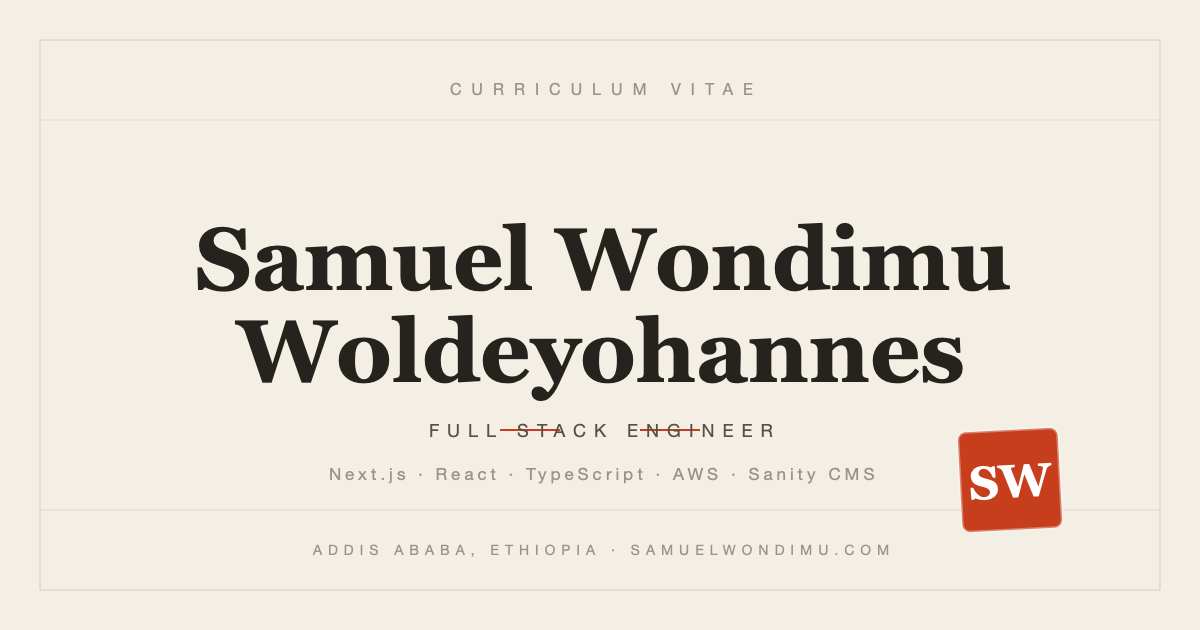
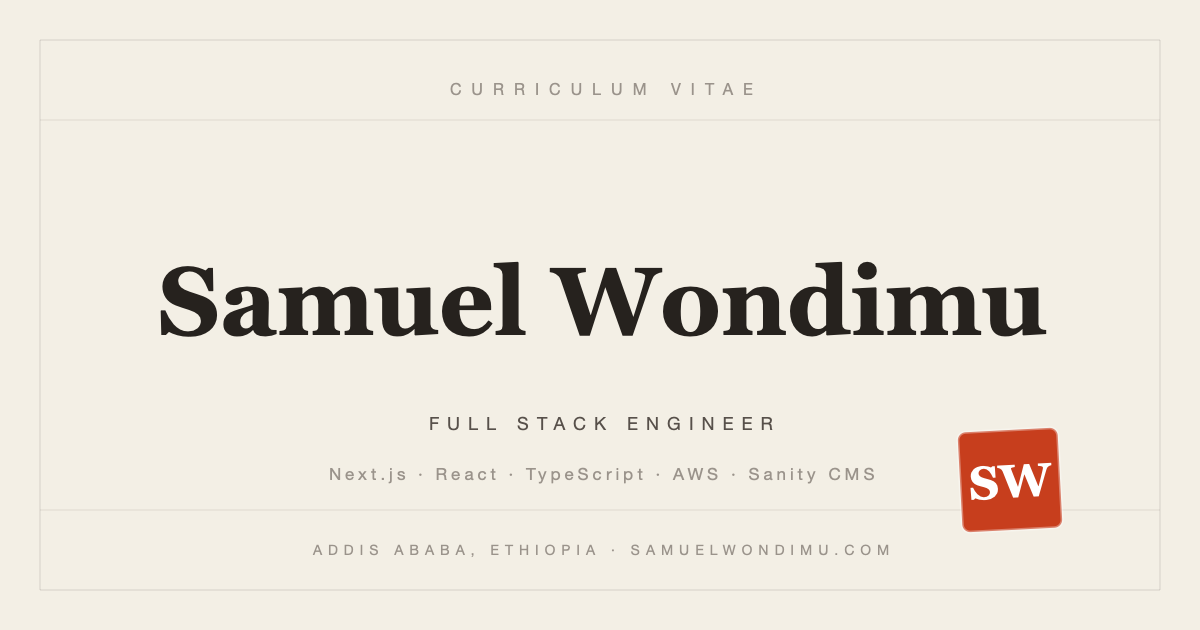
udpated og image

Changed region(s): [[0.1233, 0.3317, 0.8942, 0.6333], [0.3392, 0.6635, 0.6475, 0.6937]]

diff --git a/index.html b/index.html
@@ -33,7 +33,7 @@
     <meta property="og:image:height" content="630" />
     <meta
       property="og:image:alt"
-      content="Samuel Wondimu Woldeyohannes — Full Stack Engineer, resume cover"
+      content="Samuel Wondimu — Full Stack Engineer, resume cover"
     />
 
     <!-- Twitter / X -->
@@ -50,7 +50,7 @@
     <meta name="twitter:image" content="https://samuelwondimu.vercel.app/og-image.png" />
     <meta
       name="twitter:image:alt"
-      content="Samuel Wondimu Woldeyohannes — Full Stack Engineer, resume cover"
+      content="Samuel Wondimu — Full Stack Engineer, resume cover"
     />
 
     <!-- structured data -->

diff --git a/src/App.tsx b/src/App.tsx
@@ -290,7 +290,6 @@ function App() {
 
         {/* ─── FOOTER ─── */}
         <footer className="mt-28 pb-4 text-center">
-          <div className="enso mx-auto mb-8 h-16 w-16 rounded-full border-[3px] border-ink/70" />
           <p className="text-sm tracking-[0.4em] text-ink-faint uppercase select-none">
             Thank you for reading
           </p>
